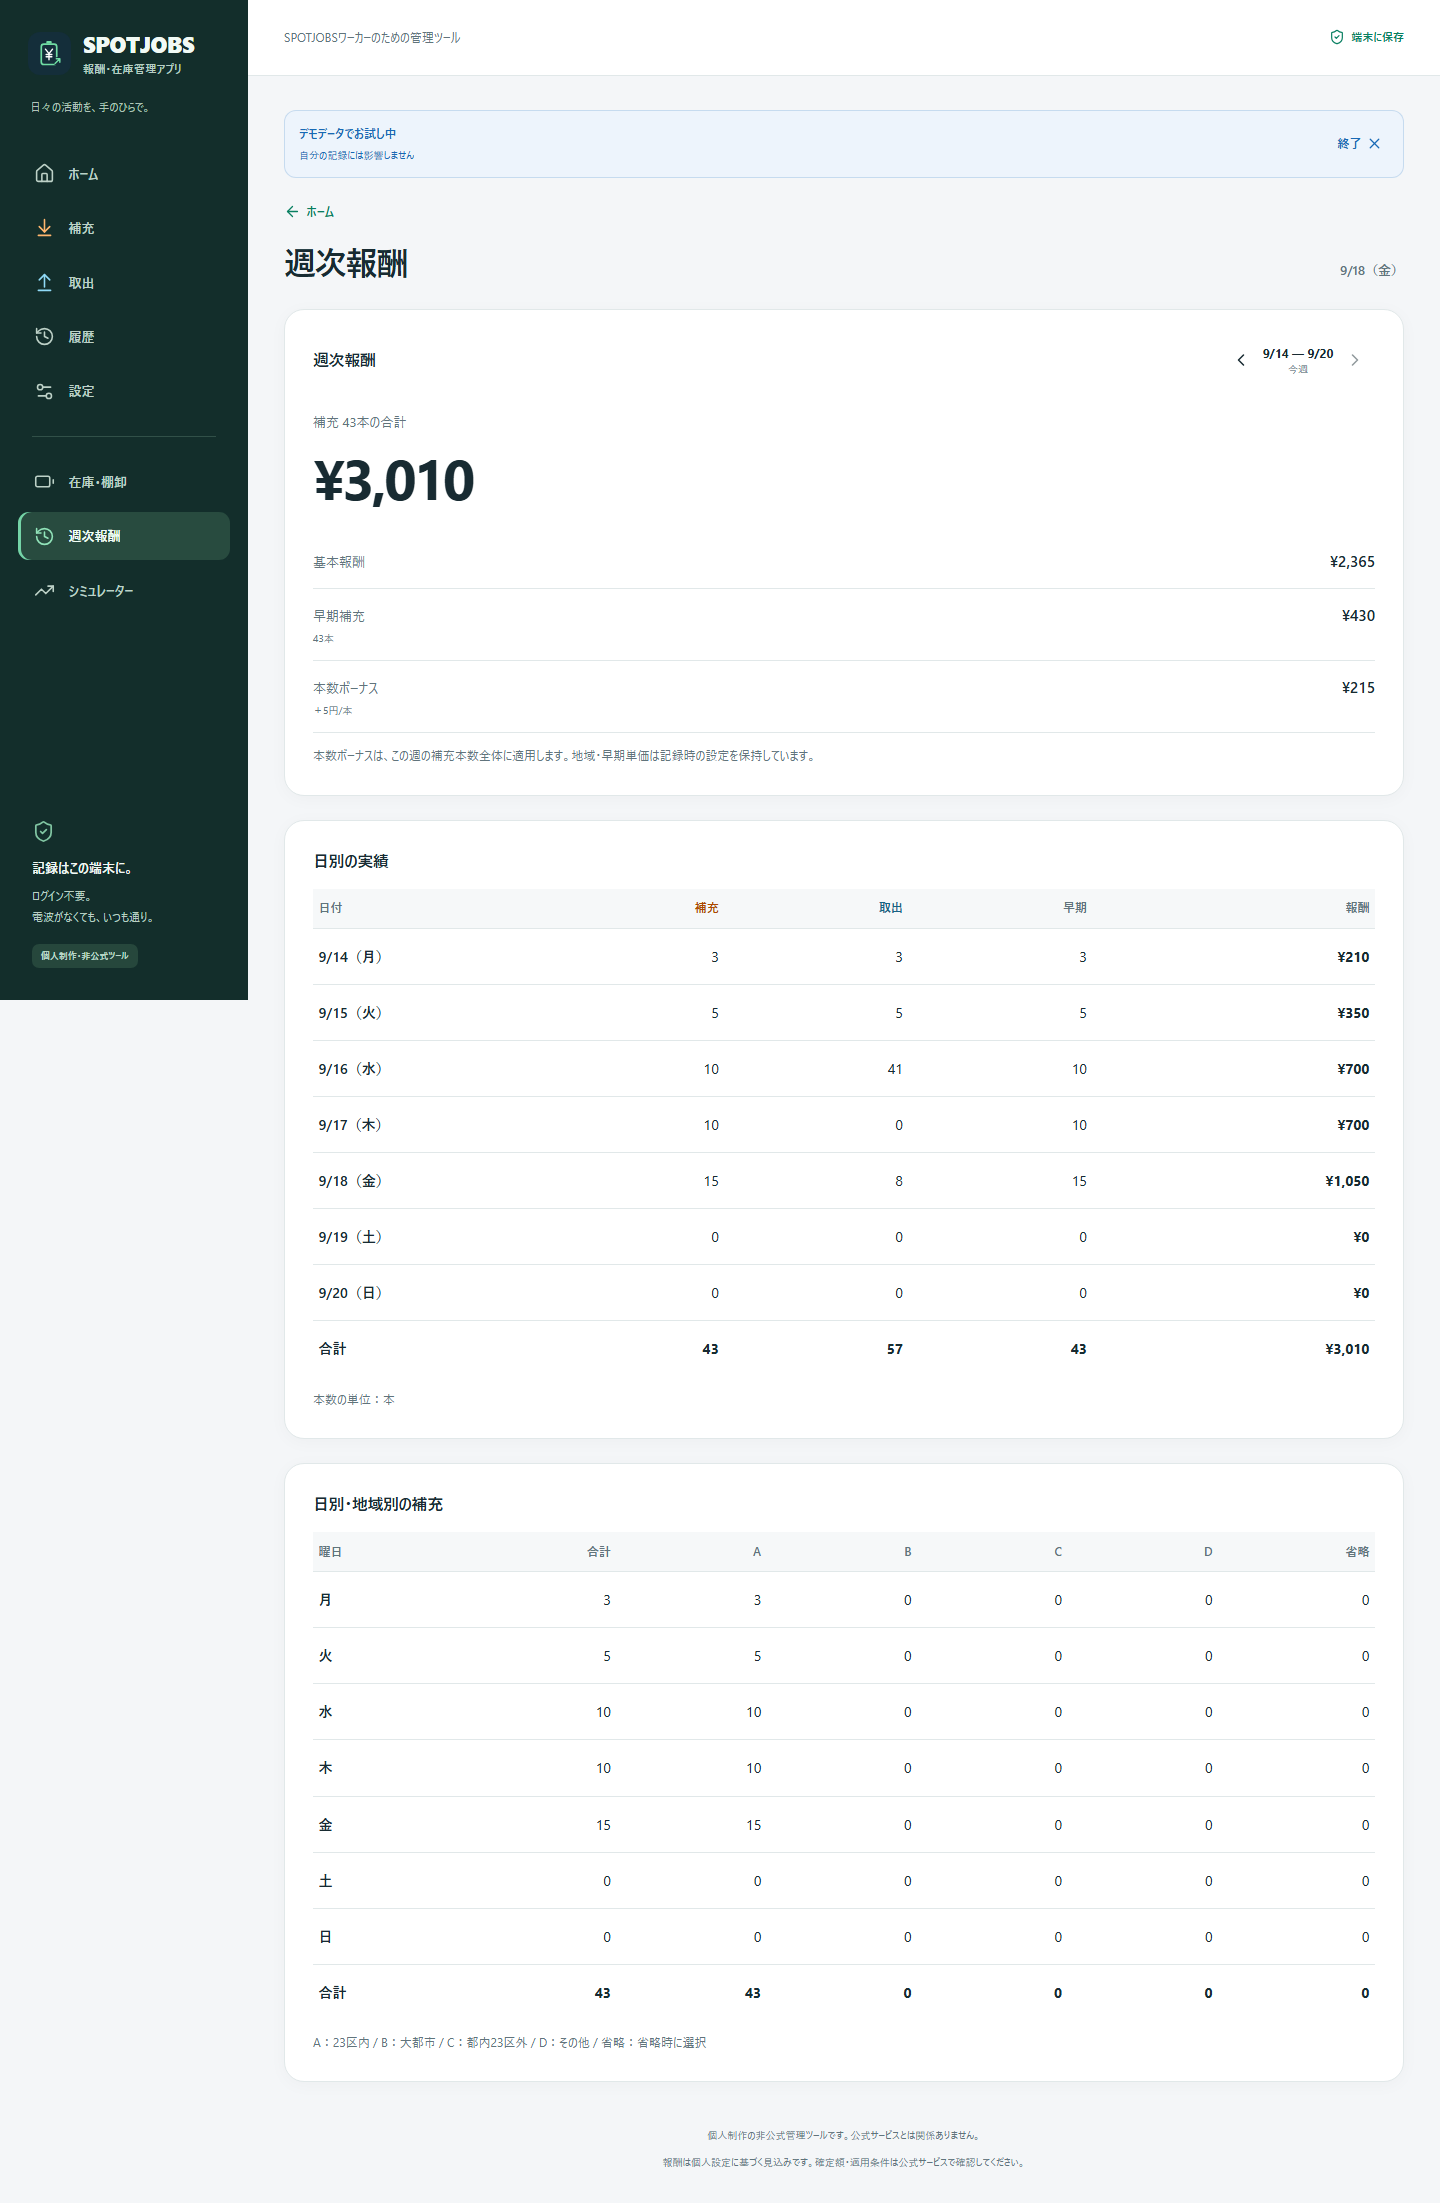
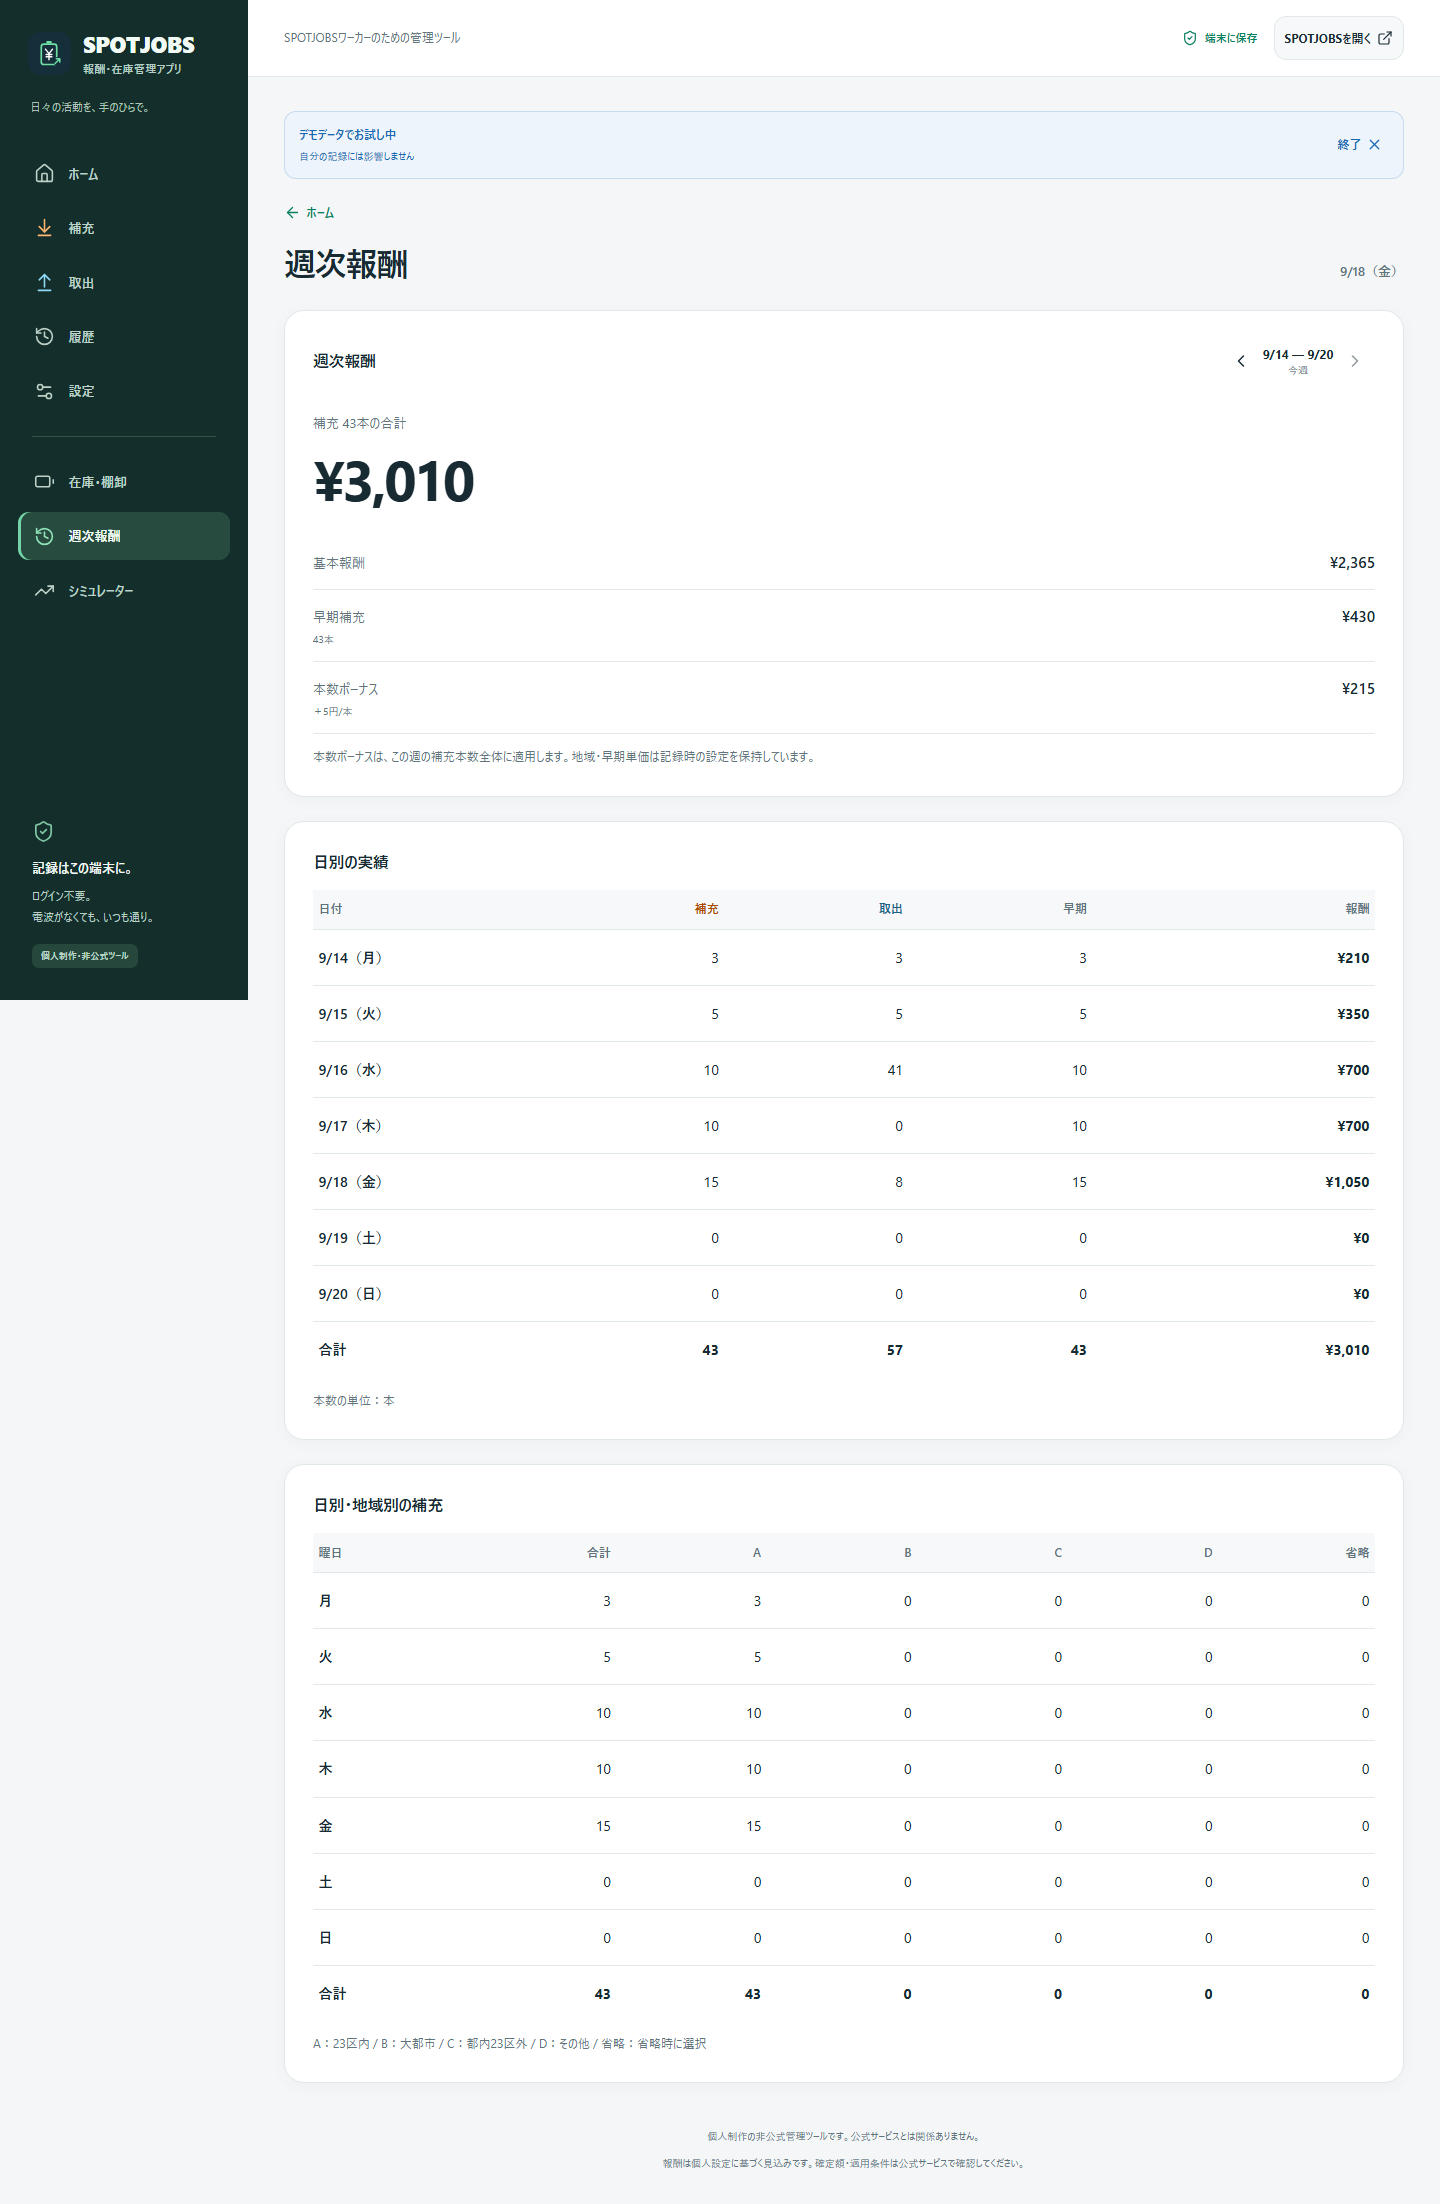
Refresh production screenshots and external-link verification

diff --git a/docs/verification.md b/docs/verification.md
@@ -21,6 +21,14 @@
 
 320px・390px・1440pxのLight / Darkで、初期表示、説明変更の反映、500文字の説明の折り返しを確認しました。横はみ出し・ブラウザエラーはなく、lint・型検査・99件の単体テスト・buildも成功しています。補充画面の本番スクリーンショットを更新しています。最新の撮影条件と寸法は[capture.json](screenshots/capture.json)に記録しています。
 
+## SPOTJOBSへの外部リンクを追加（2026年9月18日）
+
+各画面の右上に「SPOTJOBSを開く」を追加しました。`https://app.spot.jobs/` をワンタップで別タブへ開き、元の入力画面を残します。`noopener noreferrer external` を付け、作業記録やメモをURLへ付加しません。タップ領域は高さ44px以上です。
+
+ローカルとVercel本番で、モバイルChromium・WebKit（390×844）、デスクトップChromium（1440×1000）、320px幅のLight / Darkを確認しました。5条件すべてで指定URLへの別タブ遷移、元画面の遷移なし、補充7本・地域B・早期2本・日付・メモの保持を確認。横はみ出し、ブランドとの重なり、アプリ側のコンソールエラーはありませんでした。ホーム画面に追加したPWAからの外部ブラウザ起動は実機未検証で、表示先は端末・ブラウザの動作に従います。
+
+lint・型検査・99件の単体テスト・buildが成功し、ソースコミット`797b626`をVercel Productionへ公開しました。本番URLは認証なしでHTTP 200を返します。19:35 JSTに本番のデモ画面からスクリーンショット5枚を再撮影しました。最新の寸法と撮影元は[capture.json](screenshots/capture.json)を参照してください。
+
 ## 実装結果
 
 | 項目 | 実装・確認内容 |
